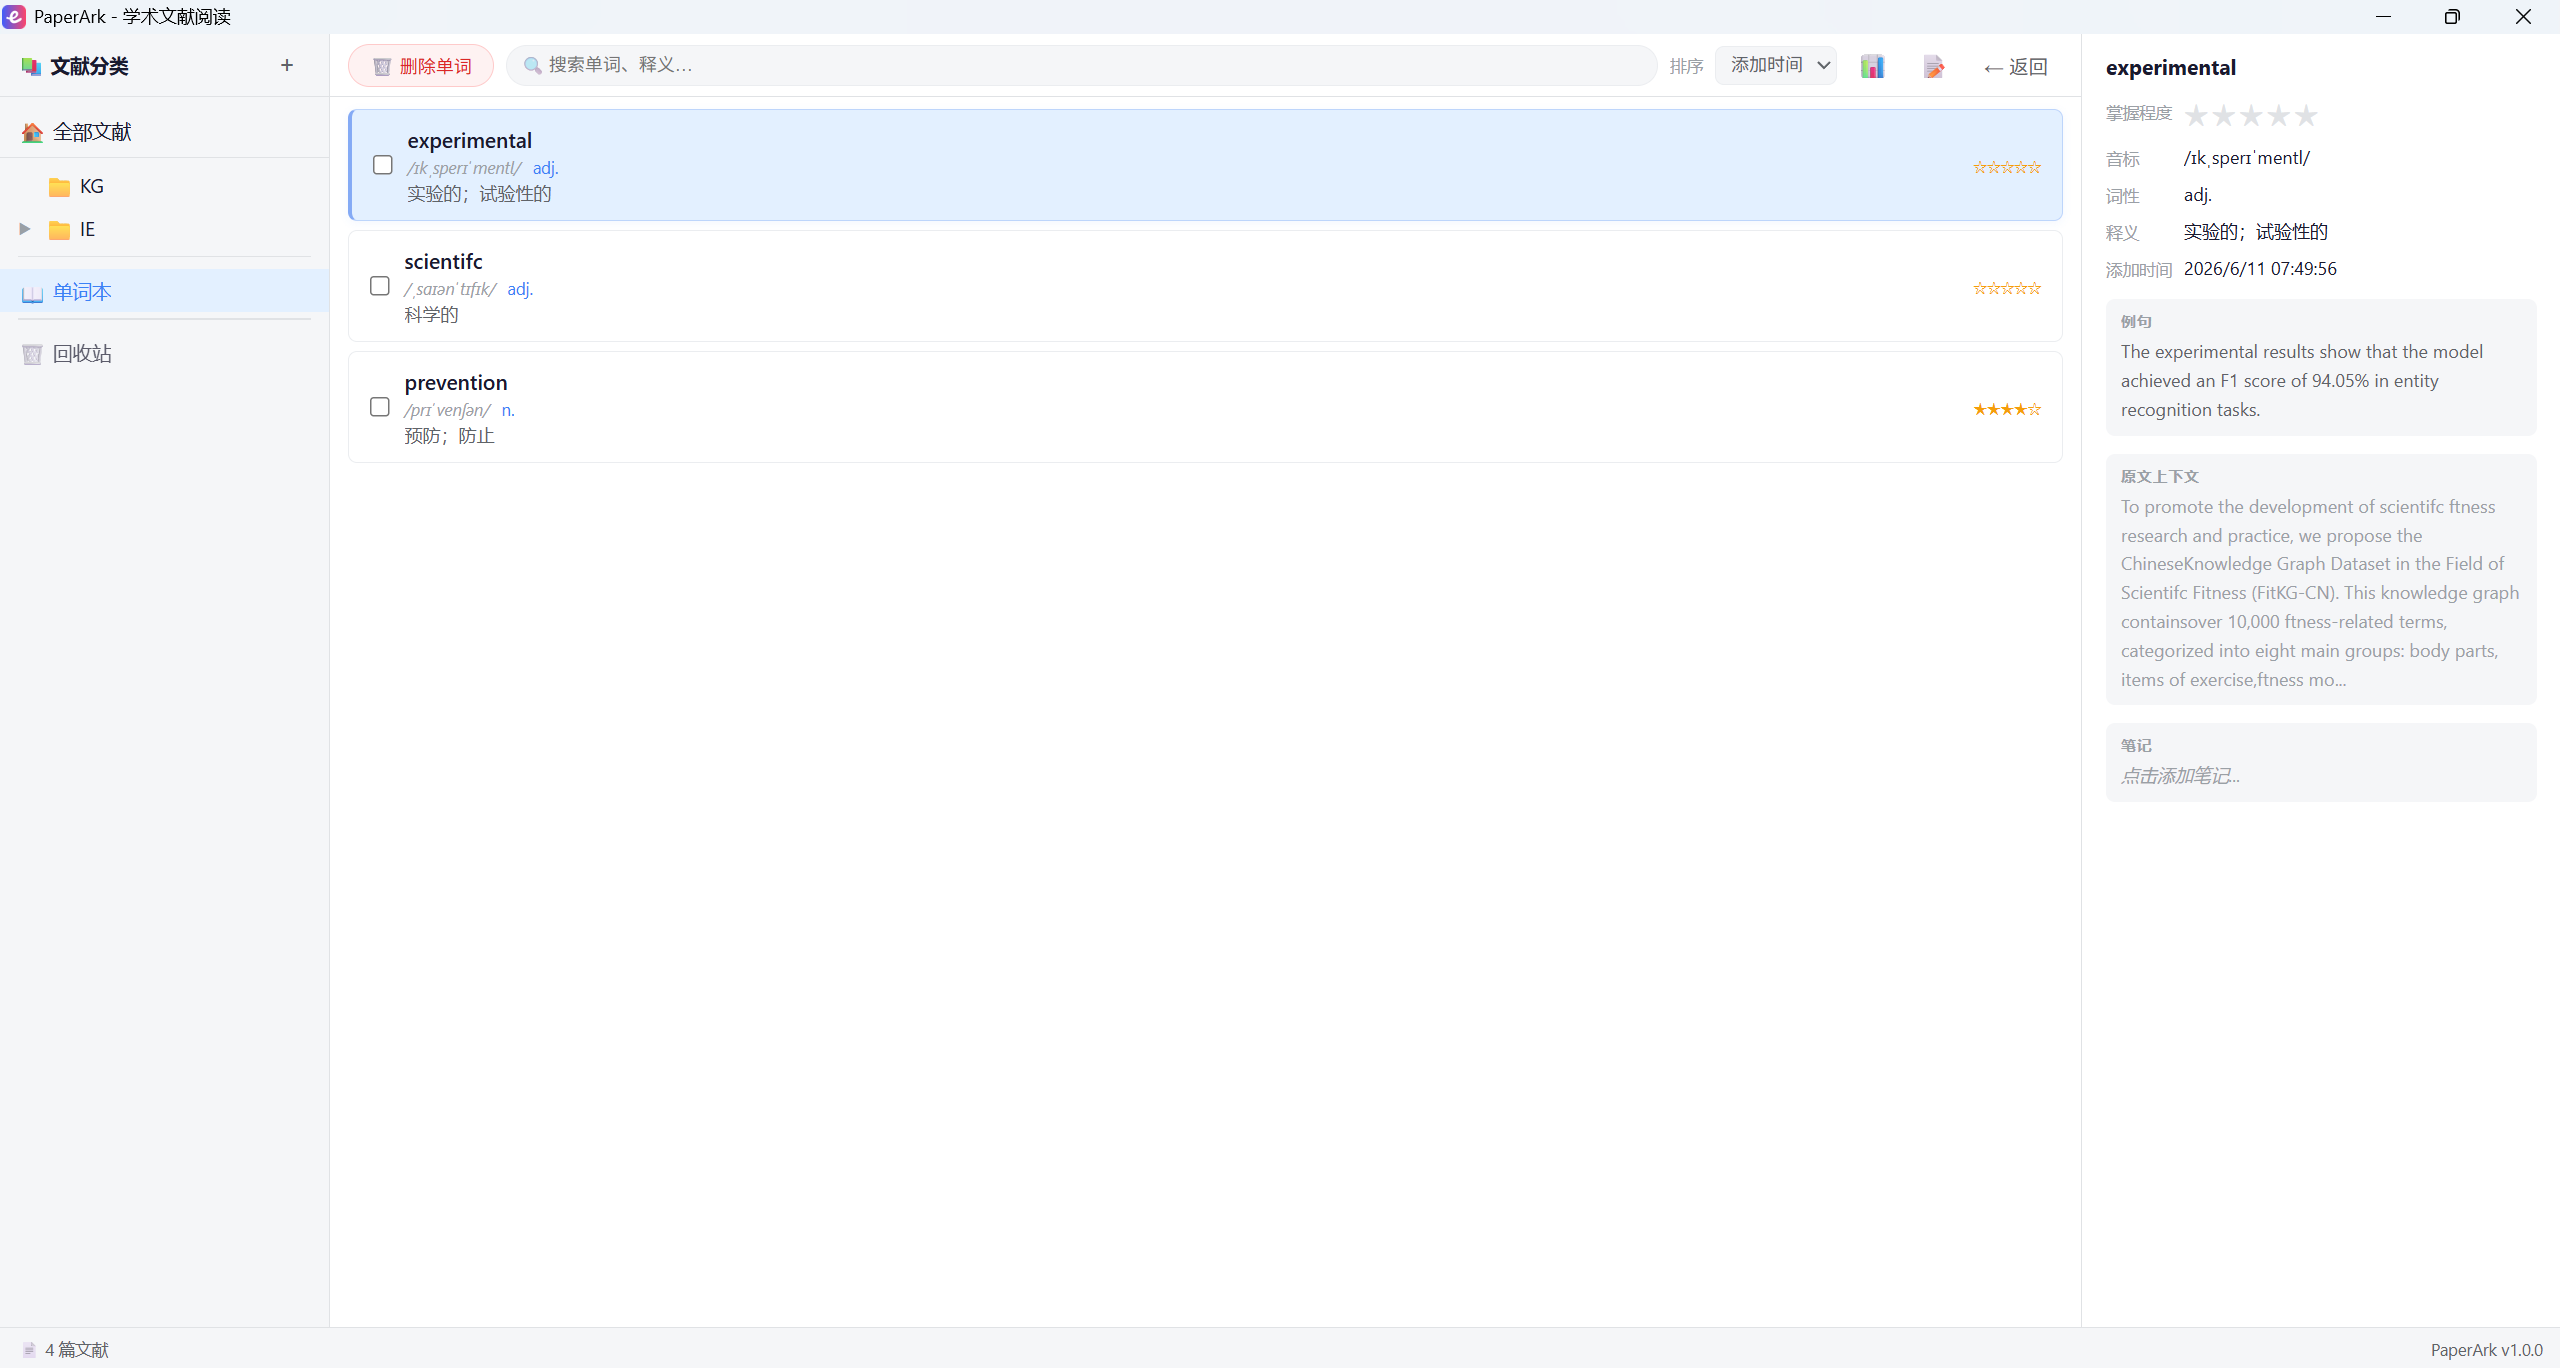
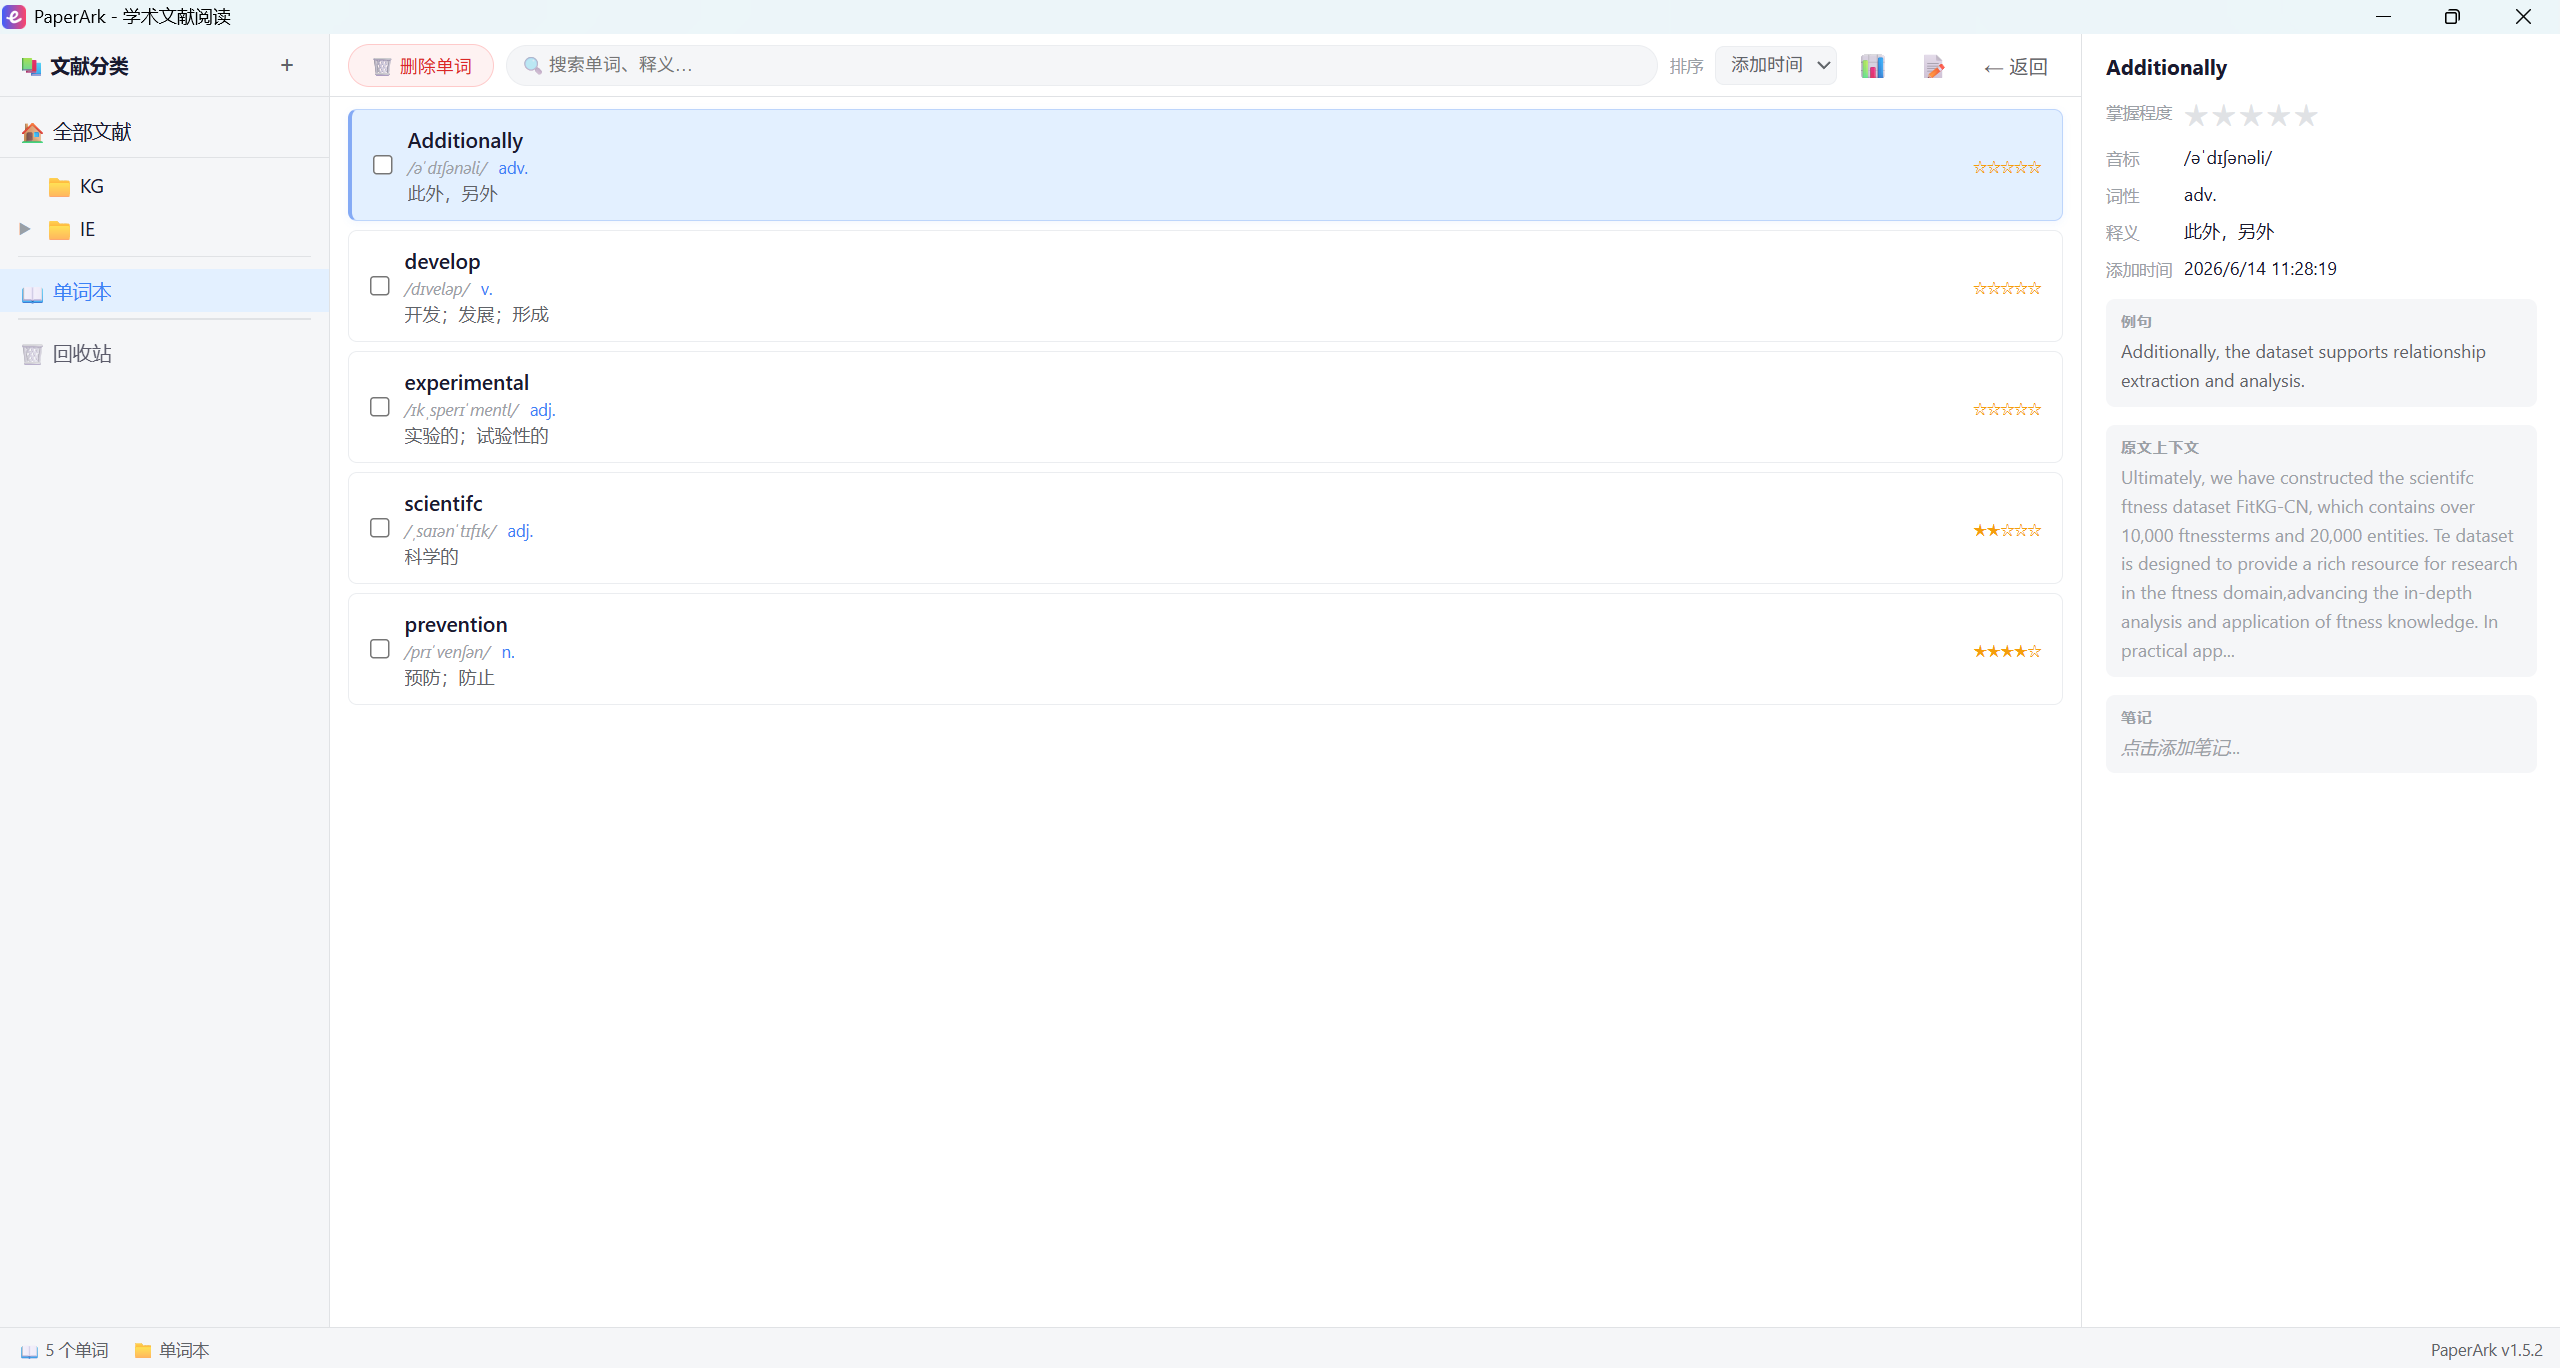
v1.5.2

diff --git a/README.md b/README.md
@@ -178,6 +178,7 @@ PaperArk 会自动检测 Zotero 数据目录的位置。如果未检测到，可
 
 左侧 PDF 面板支持：
 - **缩放**：➖ / ➕ 按钮，范围 50% ~ 300%
+- **Ctrl + 滚轮**：按住 Ctrl 键滚动滚轮，快速缩放（向上放大，向下缩小），缩放时自动保持当前阅读位置不跳动
 - **翻页**：滚动浏览，也可用 ▲ ▼ 按钮逐页翻页
 - **页码跳转**：点击当前页码数字 → 输入页码 → 回车跳转
 - **段落边界框**：点击 ▣ 按钮切换显示，不同颜色区分标题/正文/表格/图片/公式
@@ -195,12 +196,17 @@ PaperArk 会自动检测 Zotero 数据目录的位置。如果未检测到，可
 
 提取完成后，右侧 **原文面板** 展示结构化全文，包括标题层级、正文段落、表格、公式和图片。
 
+### 面板布局调整
+
+PDF 与原文面板默认左 PDF、右原文。在搜索按钮右侧点击 **↔️ 交换布局** 可互换左右位置。两个面板之间有一条可拖拽的分隔条，拖拽可调整两边宽度比例。
+
 ### 段落联动
 
 **点击原文段落 → PDF 自动跳转到对应页面并高亮区域**，反之也可以在 PDF 上点击文字区域来定位对应段落。
 
 原文面板工具栏支持：
-- **字体缩放**：A⁻ / A⁺ 调整阅读字号
+- **字体缩放**：A⁻ / A⁺ 调整阅读字号（12px ~ 20px）
+- **Ctrl + 滚轮**：按住 Ctrl 滚动滚轮同样可缩放字体
 - **隐藏/显示 PDF**：仅看原文，或恢复双栏
 
 ---